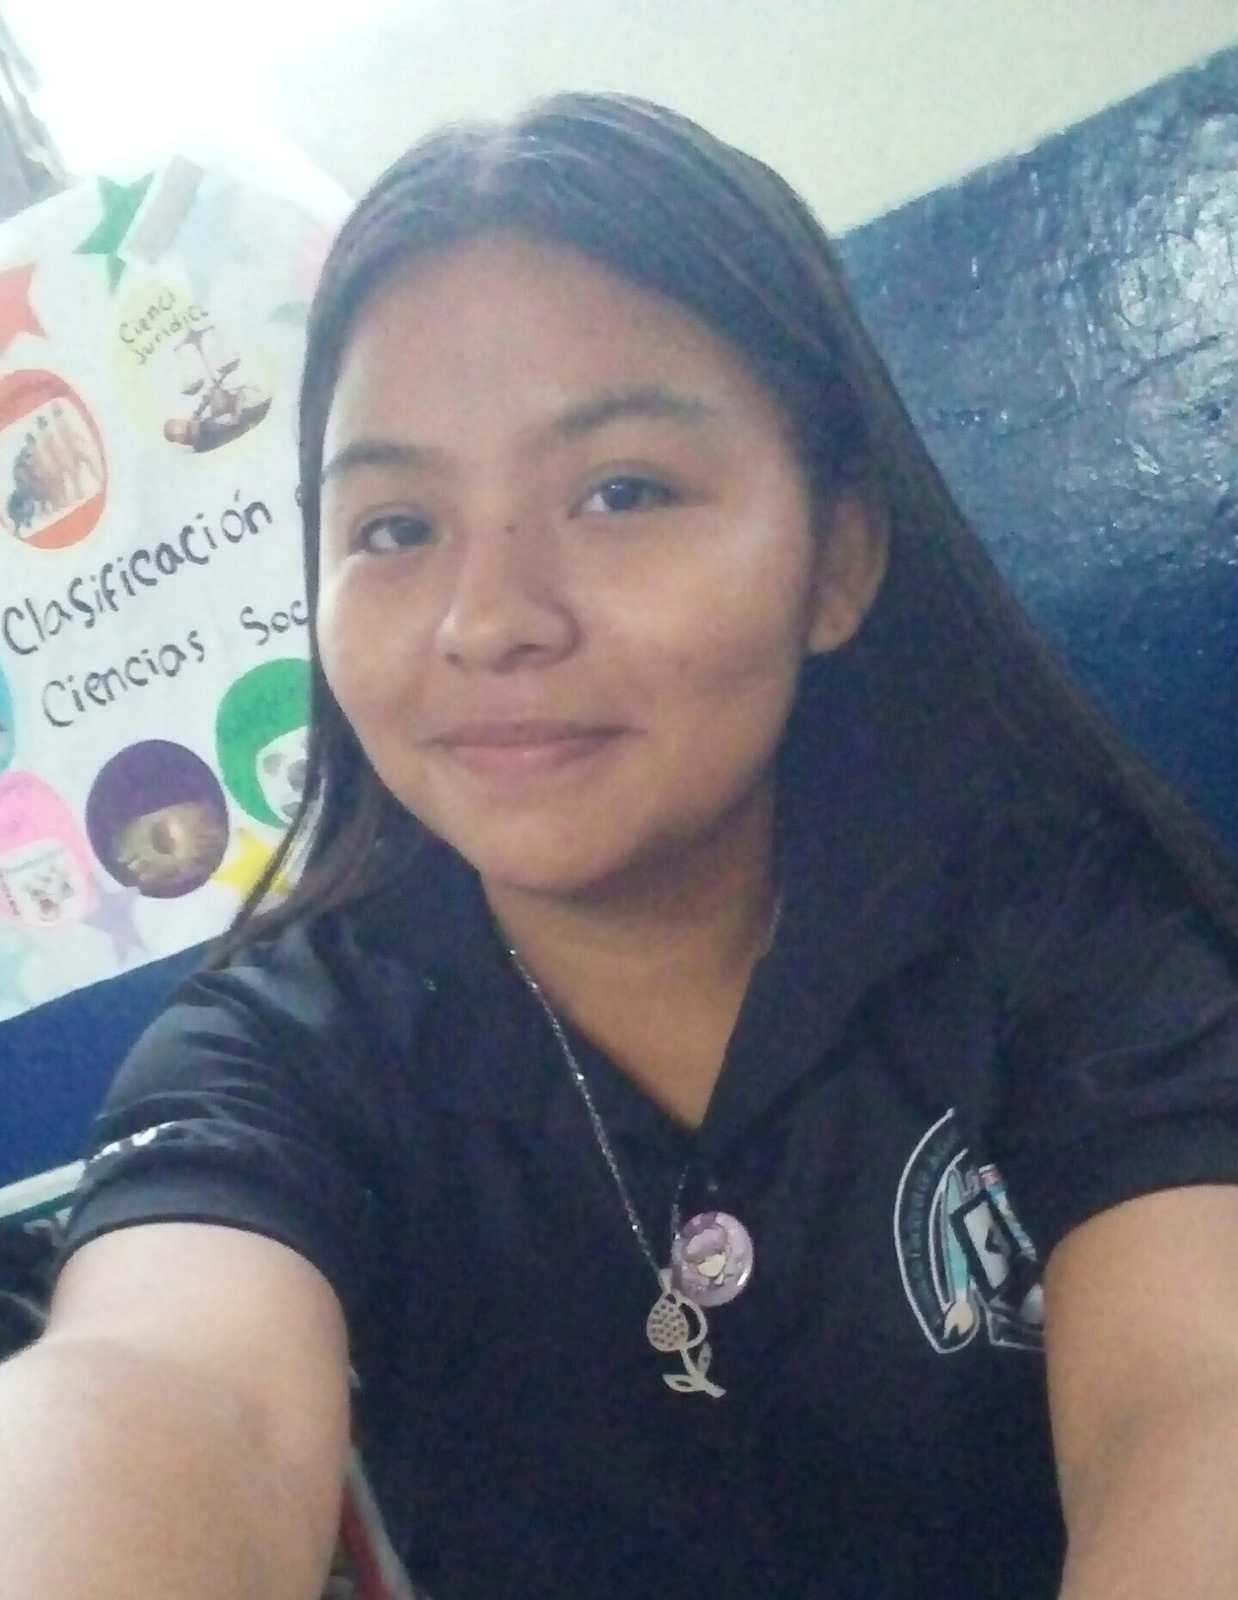
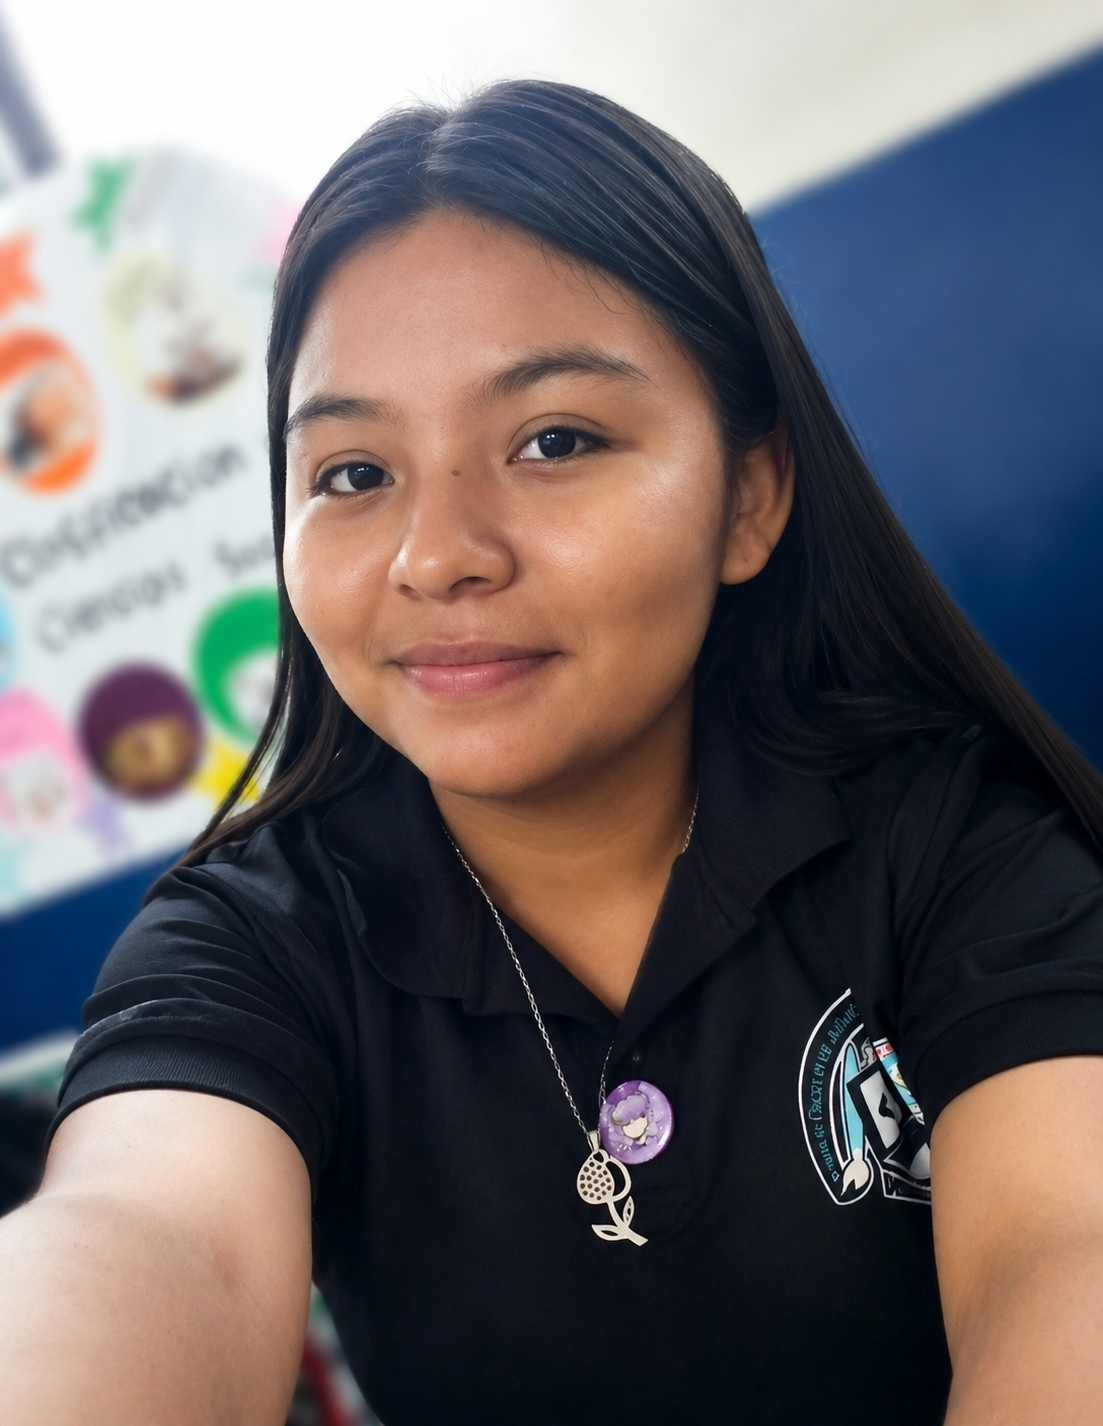
Se agregaron fotos faltantes a la pagina del INJU

diff --git a/inju.html b/inju.html
@@ -431,7 +431,7 @@
                     <div class="student-bg student-bg-2"></div>
                     <div class="student-avatar">
                         <div class="av-icon">
-                            <svg class="inju-icon student-svg" viewBox="0 0 24 24" aria-hidden="true" width="24" height="24"><path d="M12 12a4 4 0 1 0 0-8 4 4 0 0 0 0 8Zm-7 9c.6-4.2 3.2-7 7-7s6.4 2.8 7 7H5Z"/><path d="M18.5 6.5h2v2h2v2h-2v2h-2v-2h-2v-2h2v-2Z"/></svg>
+                            <img src="img-INJU-page/img-teacher-alumnos/fotoKaty.jpg" alt="Foto de Katy Herrera" loading="lazy" width="300" height="400">
                         </div>
                     </div>
                     <div class="student-bottom">
@@ -443,7 +443,7 @@
                         <div class="student-hover-role">Programadora</div>
                         <div class="student-hover-divider"></div>
                         <h4>Responsabilidades</h4>
-                        <p>Se encargo de colocar eficientemente las imagenes en la pagina de productos y en la pagina de compras.</p>
+                        <p>Se encargo de colocar eficientemente las imagenes en la pagina de compras.</p>
                         <div class="student-tags">
                             <span class="s-tag">Productos</span>
                             <span class="s-tag">Ventas</span>
